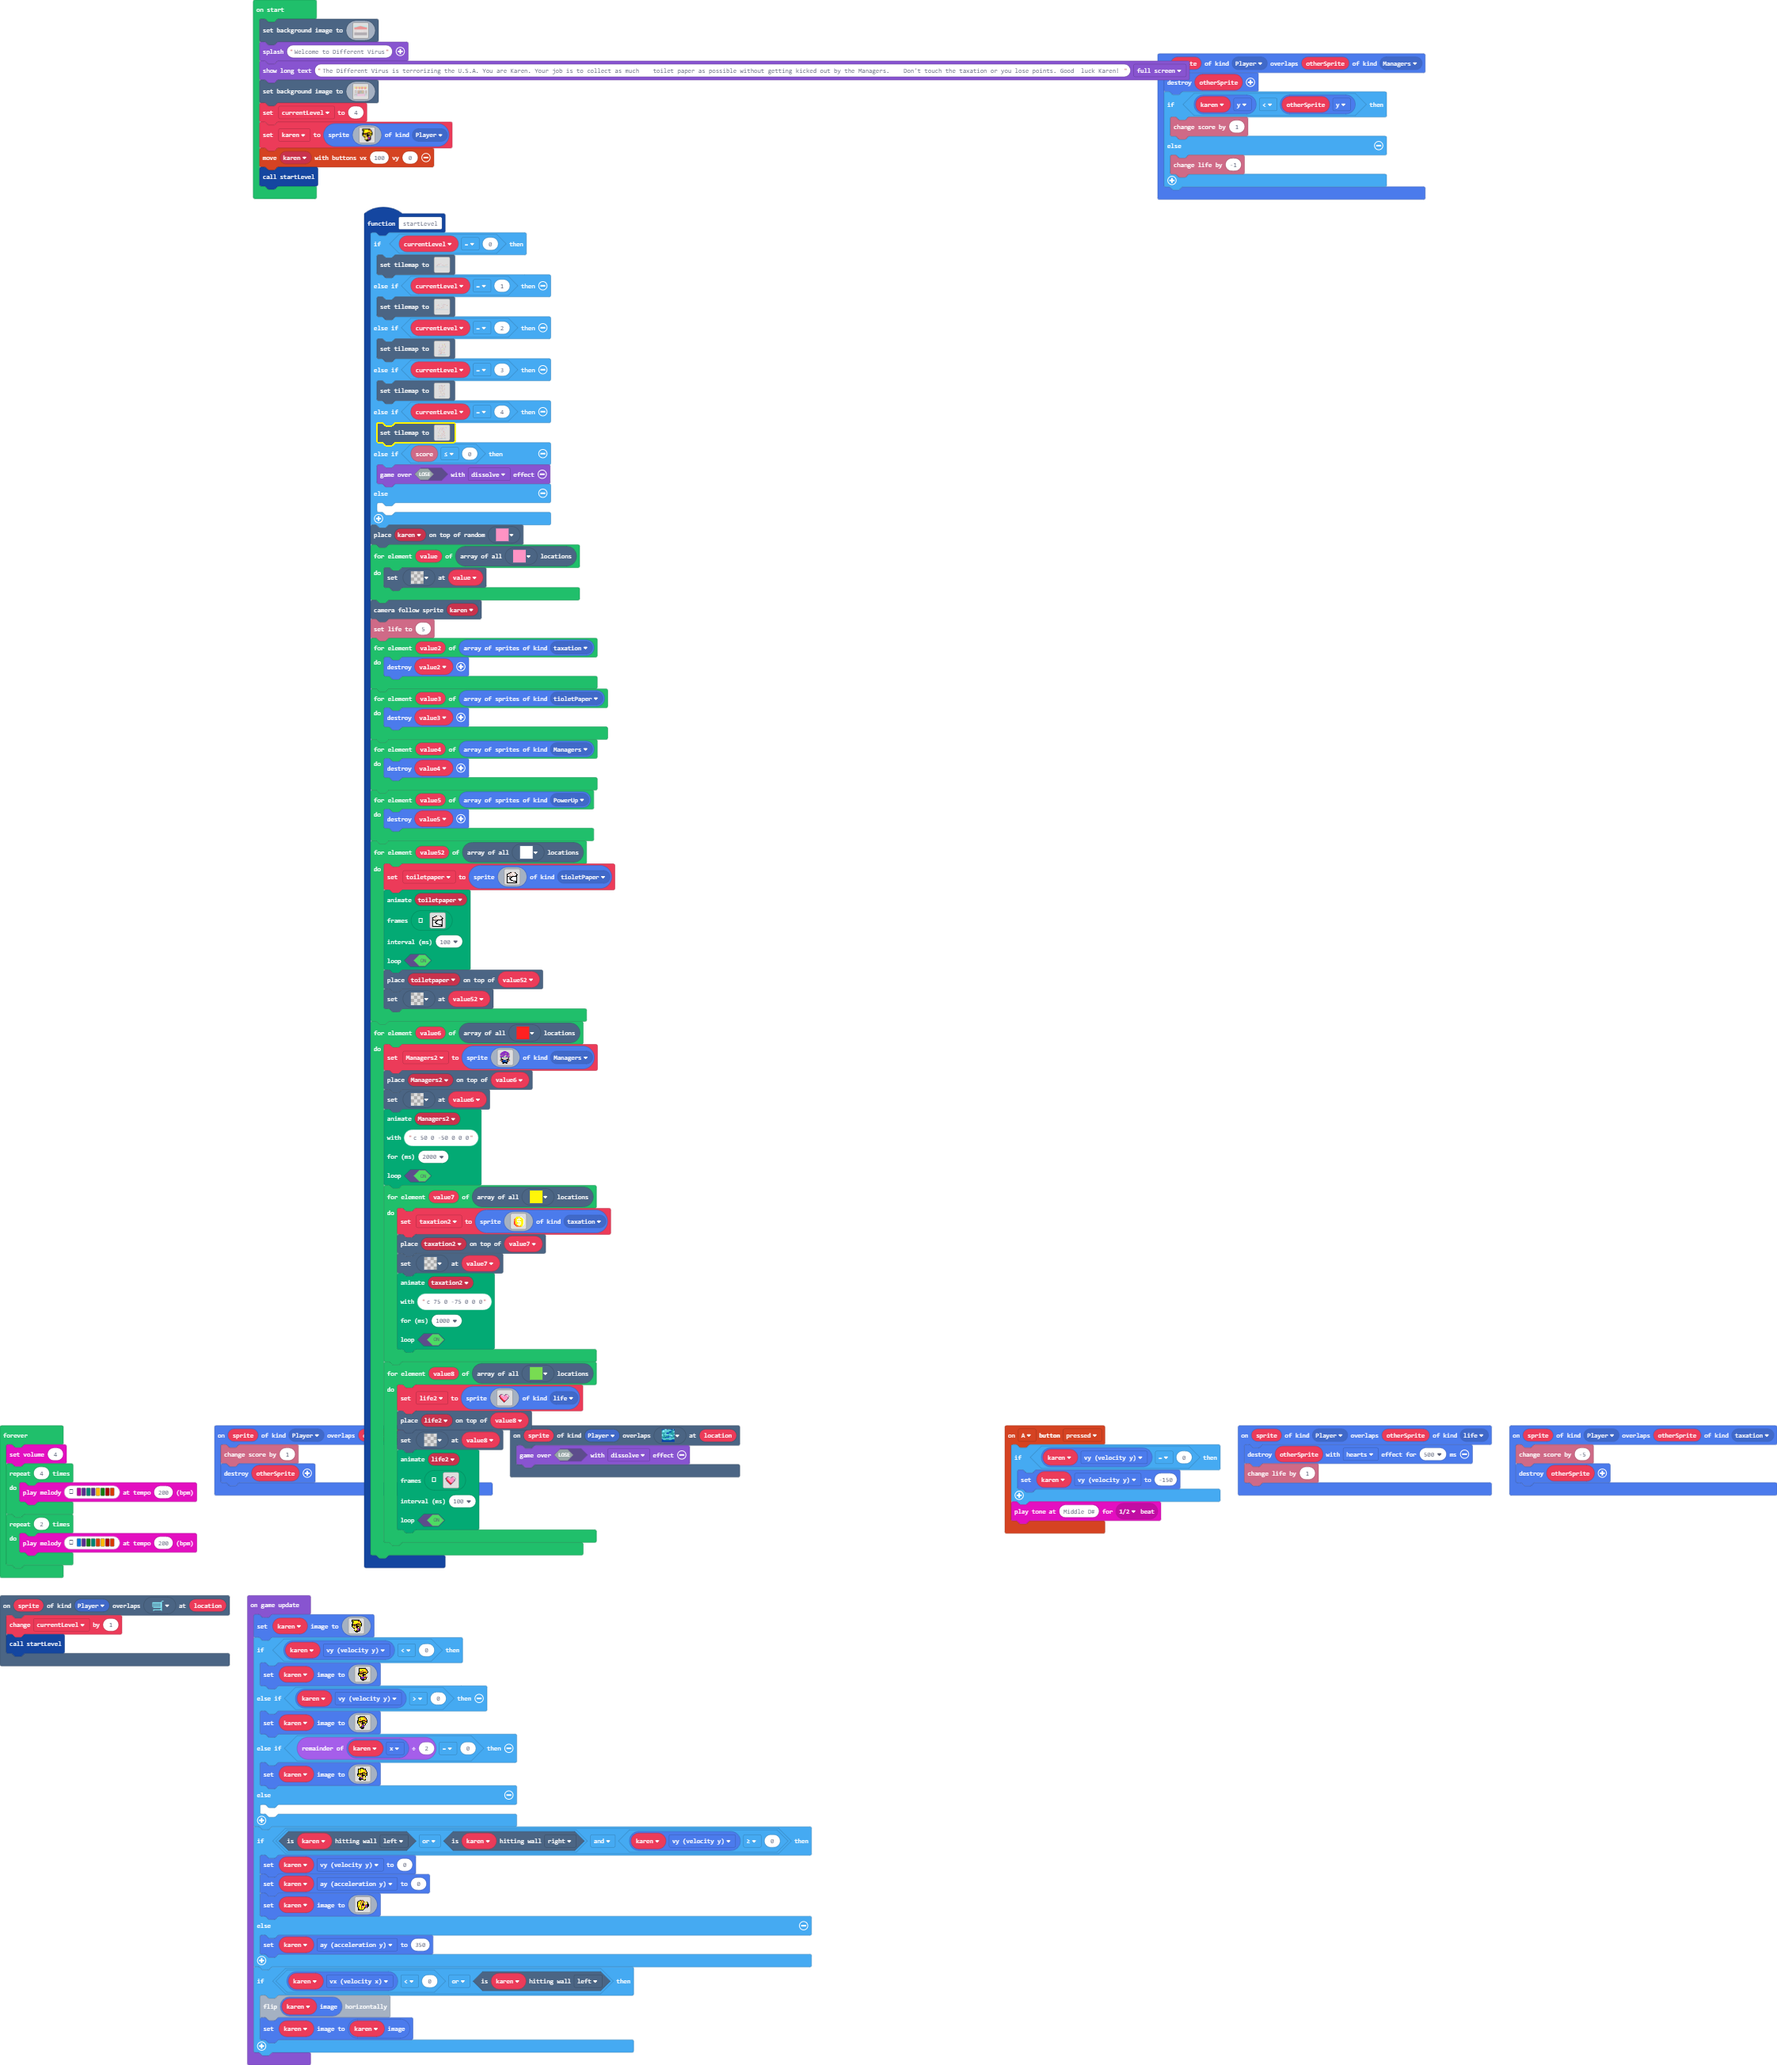
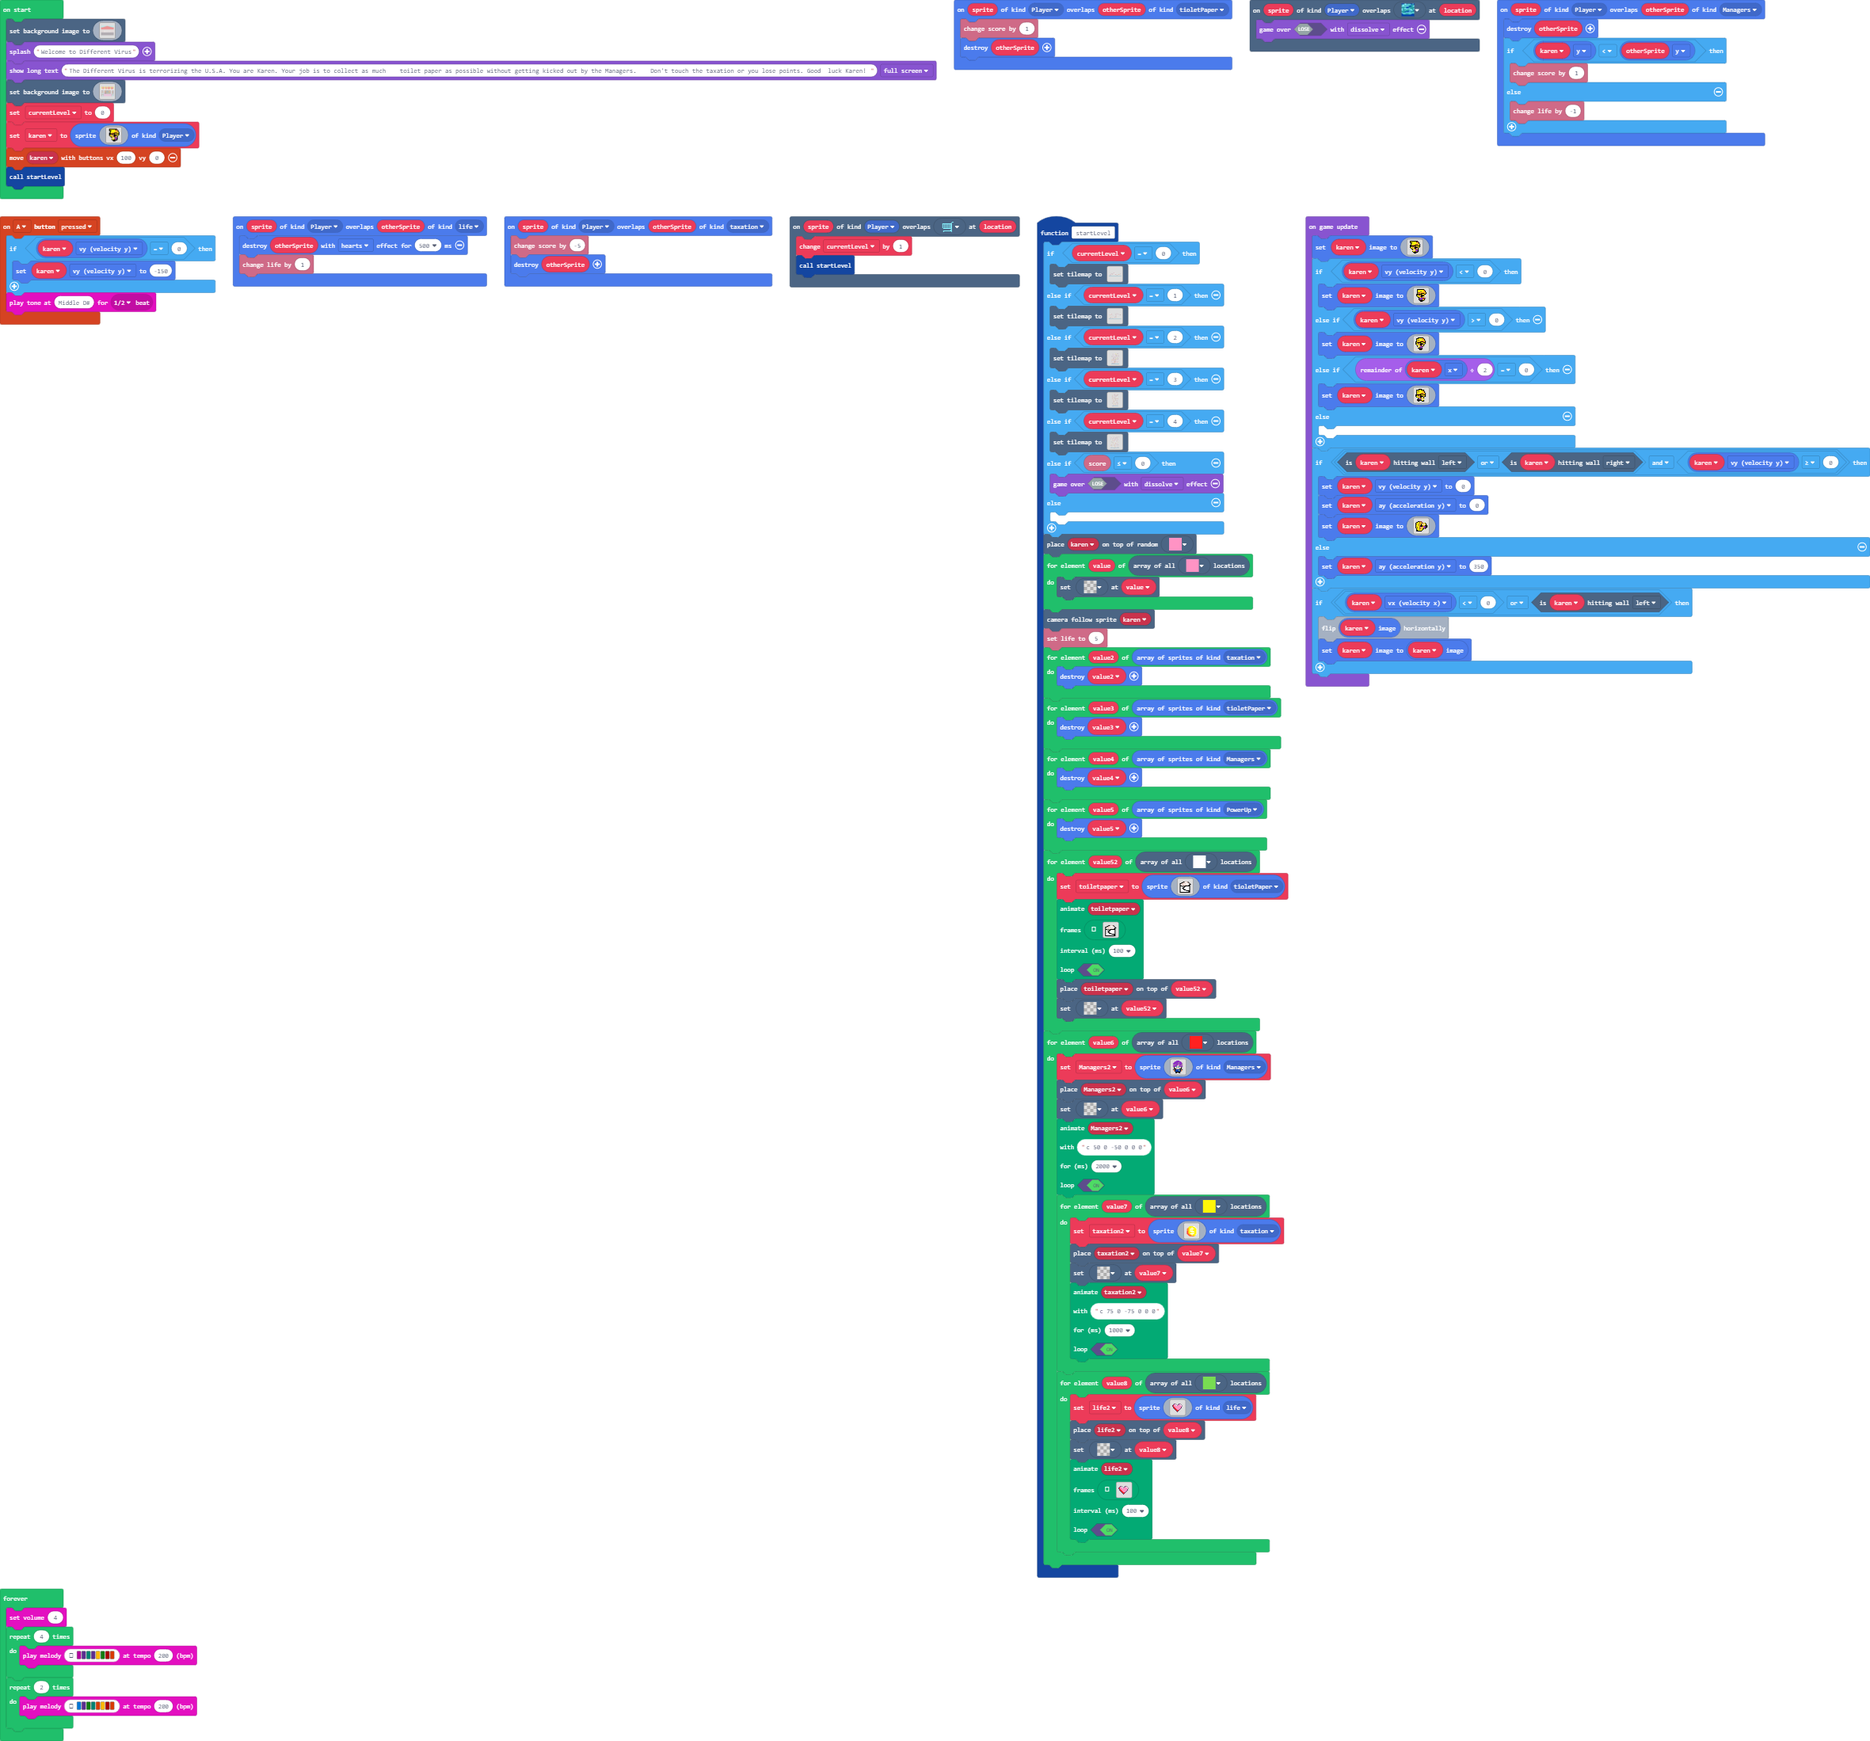
Update main.blocks, main.ts

Changed region(s): [[0.0, 0.0, 1.0, 1.0]]

diff --git a/main.ts b/main.ts
@@ -261,32 +261,6 @@ sprites.onOverlap(SpriteKind.Player, SpriteKind.tioletPaper, function (sprite, o
 scene.onOverlapTile(SpriteKind.Player, myTiles.tile9, function (sprite, location) {
     game.over(false, effects.dissolve)
 })
-sprites.onOverlap(SpriteKind.Player, SpriteKind.Managers, function (sprite, otherSprite) {
-    otherSprite.destroy()
-    if (karen.y < otherSprite.y) {
-        info.changeScoreBy(1)
-    } else {
-        info.changeLifeBy(-1)
-    }
-})
-controller.A.onEvent(ControllerButtonEvent.Pressed, function () {
-    if (karen.vy == 0) {
-        karen.vy = -150
-    }
-    music.playTone(311, music.beat(BeatFraction.Half))
-})
-sprites.onOverlap(SpriteKind.Player, SpriteKind.life, function (sprite, otherSprite) {
-    otherSprite.destroy(effects.hearts, 500)
-    info.changeLifeBy(1)
-})
-sprites.onOverlap(SpriteKind.Player, SpriteKind.taxation, function (sprite, otherSprite) {
-    info.changeScoreBy(-5)
-    otherSprite.destroy()
-})
-scene.onOverlapTile(SpriteKind.Player, myTiles.tile8, function (sprite, location) {
-    currentLevel += 1
-    startLevel()
-})
 function startLevel () {
     if (currentLevel == 0) {
         tiles.setTilemap(tiles.createTilemap(
@@ -1006,6 +980,32 @@ d d f 8 8 8 8 8 8 f d d .
         }
     }
 }
+sprites.onOverlap(SpriteKind.Player, SpriteKind.Managers, function (sprite, otherSprite) {
+    otherSprite.destroy()
+    if (karen.y < otherSprite.y) {
+        info.changeScoreBy(1)
+    } else {
+        info.changeLifeBy(-1)
+    }
+})
+controller.A.onEvent(ControllerButtonEvent.Pressed, function () {
+    if (karen.vy == 0) {
+        karen.vy = -150
+    }
+    music.playTone(311, music.beat(BeatFraction.Half))
+})
+sprites.onOverlap(SpriteKind.Player, SpriteKind.life, function (sprite, otherSprite) {
+    otherSprite.destroy(effects.hearts, 500)
+    info.changeLifeBy(1)
+})
+sprites.onOverlap(SpriteKind.Player, SpriteKind.taxation, function (sprite, otherSprite) {
+    info.changeScoreBy(-5)
+    otherSprite.destroy()
+})
+scene.onOverlapTile(SpriteKind.Player, myTiles.tile8, function (sprite, location) {
+    currentLevel += 1
+    startLevel()
+})
 let life2: Sprite = null
 let taxation2: Sprite = null
 let Managers2: Sprite = null
@@ -1258,7 +1258,7 @@ scene.setBackgroundImage(img`
 3 3 3 3 8 8 8 8 8 8 8 8 8 8 8 8 8 8 8 8 8 8 8 8 8 8 8 8 8 8 8 8 8 3 3 3 3 3 3 3 3 3 3 3 3 3 3 3 3 3 3 3 3 3 3 3 3 3 3 3 3 3 3 3 3 3 3 3 3 3 3 3 3 3 3 3 3 3 3 3 3 3 3 3 3 3 3 3 3 3 3 3 3 3 3 3 3 3 3 3 3 3 3 3 3 3 3 3 3 3 3 3 3 3 3 3 3 3 3 3 3 3 3 3 3 3 3 3 3 3 3 3 3 3 8 8 e e 9 9 9 9 9 9 9 9 1 9 9 1 1 1 1 1 1 1 b 8 8 3 
 3 3 3 3 8 8 8 8 8 8 8 8 8 8 8 8 8 8 8 8 8 8 8 8 8 8 8 8 8 8 8 8 8 3 3 3 3 3 3 3 3 3 3 3 3 3 3 3 3 3 3 3 3 3 3 3 3 3 3 3 3 3 3 3 3 3 3 3 3 3 3 3 3 3 3 3 3 3 3 3 3 3 3 3 3 3 3 3 3 3 3 3 3 3 3 3 3 3 3 3 3 3 3 3 3 3 3 3 3 3 3 3 3 3 3 3 3 3 3 3 3 3 3 3 3 3 3 3 3 3 3 3 3 3 8 8 8 8 8 8 8 8 8 8 8 8 8 8 8 8 8 8 8 8 8 1 8 8 8 3 
 `)
-currentLevel = 4
+currentLevel = 0
 karen = sprites.create(img`
 . . f f f f f f f f f f . . . . 
 . . f 5 5 5 5 5 5 5 f 4 f . . . 
